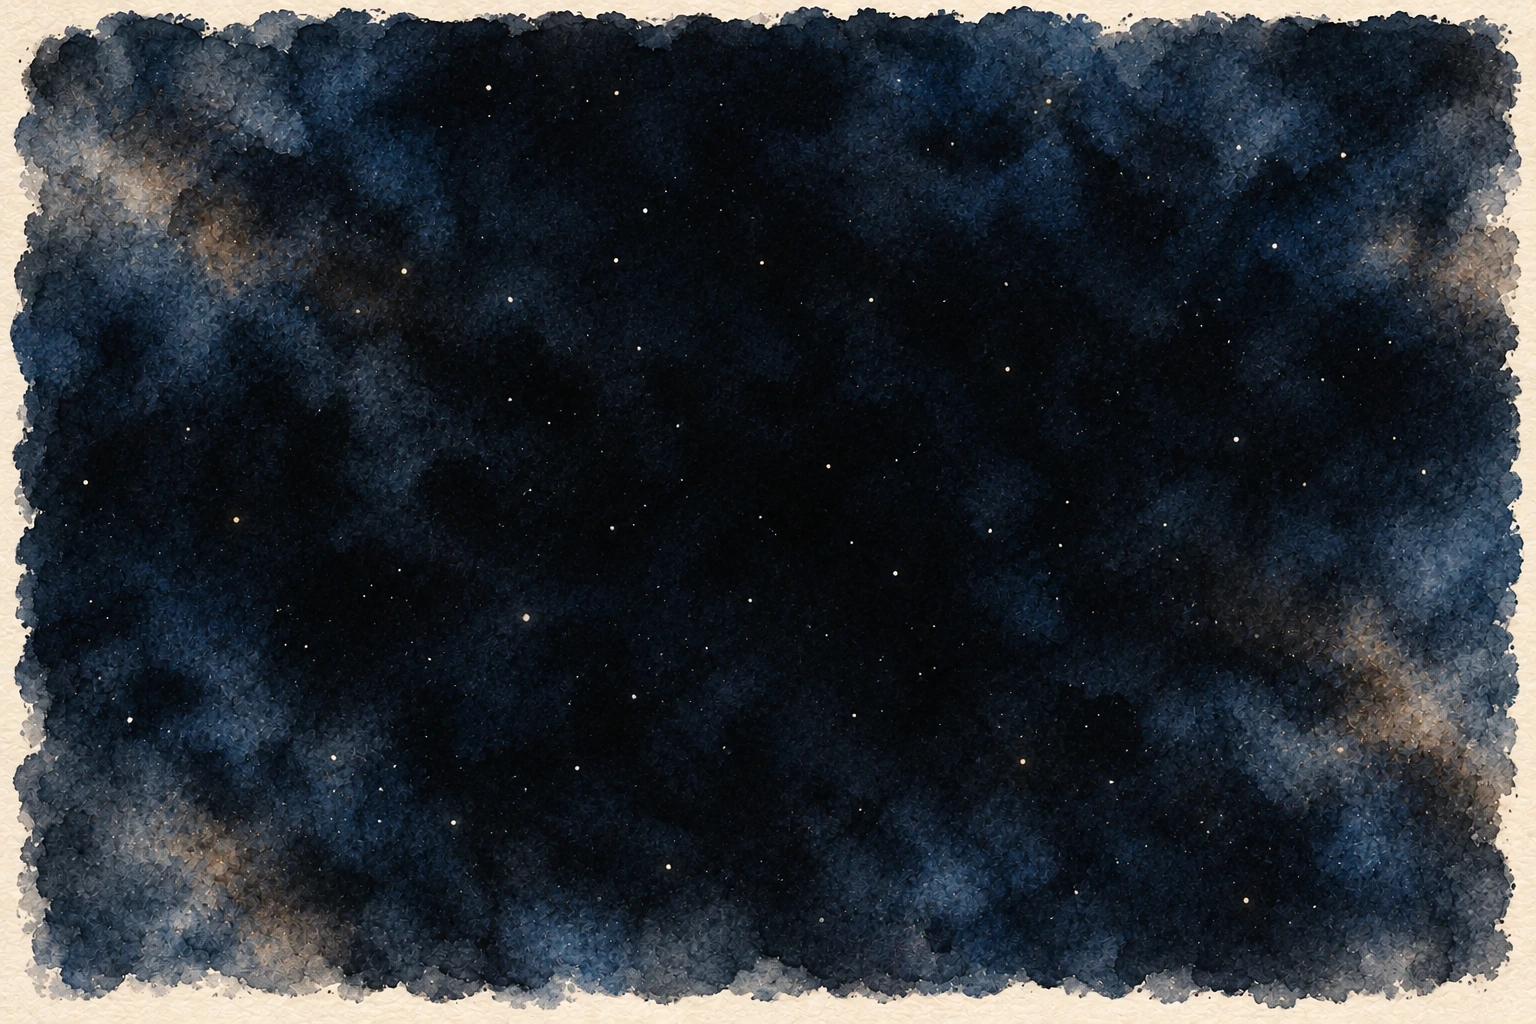
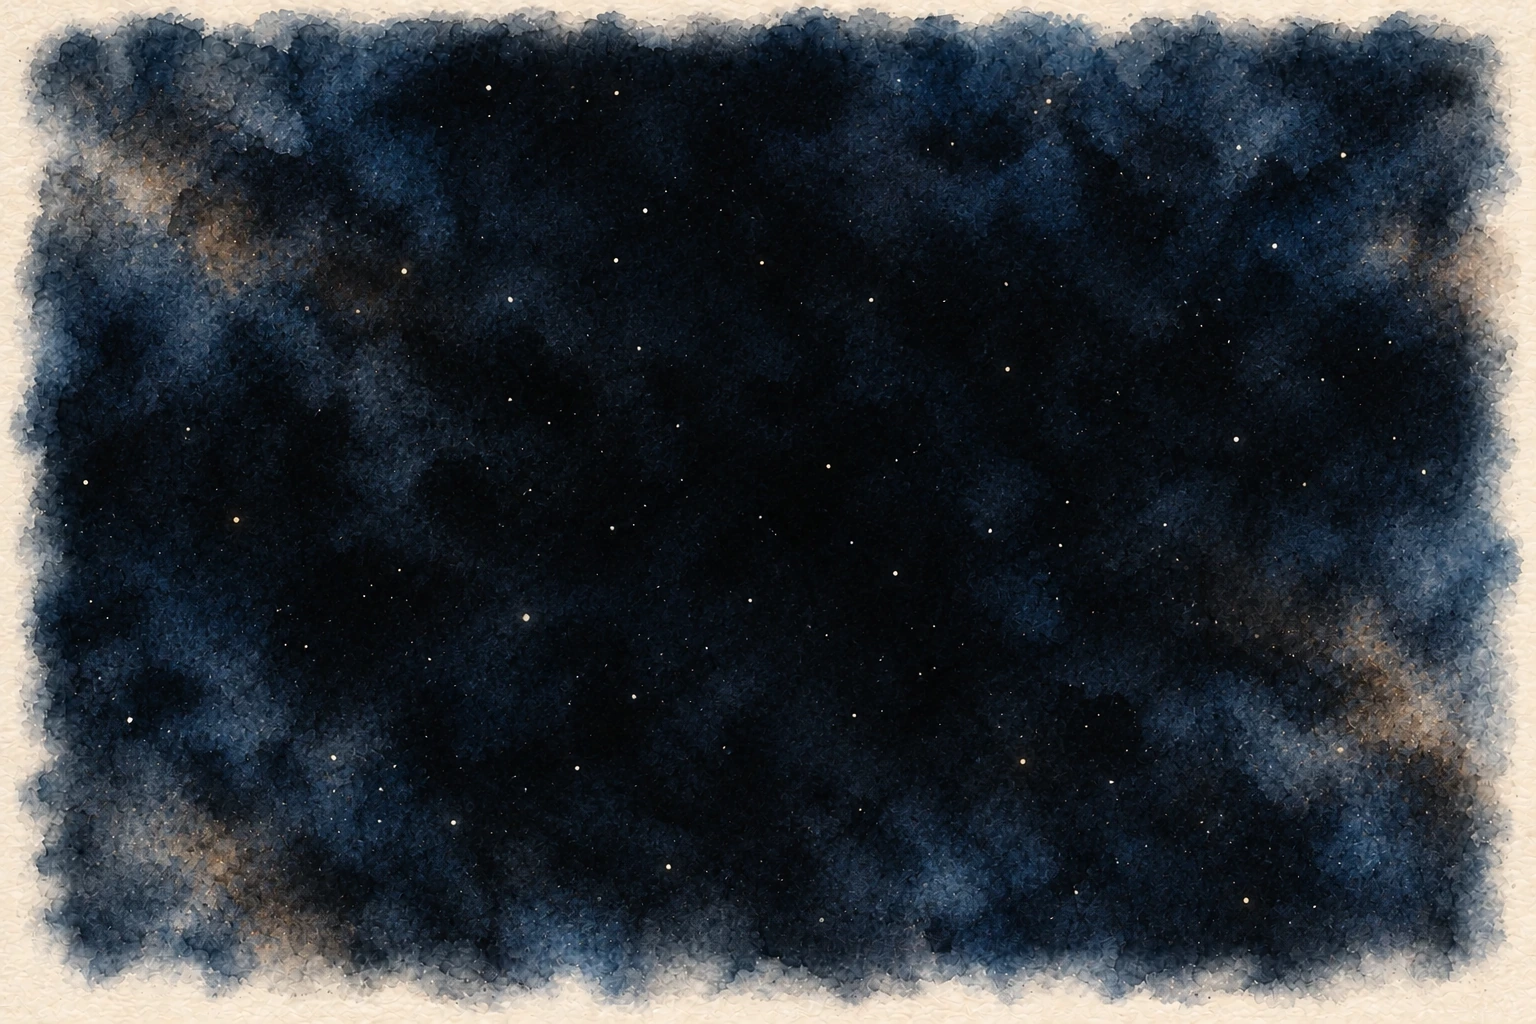
Refresh space watercolors and Deep space travel areas (#767)
Replace seven space watercolors, align detail crops and labels, preserve the Earth-view Venus lighting, and put Deep space travel targets in the empty space beside their labels.

Changed region(s): [[0.0, 0.0, 1.0, 1.0]]

diff --git a/pictures/space/index.html b/pictures/space/index.html
@@ -156,10 +156,10 @@ scenes:
     label_x: 16.6
     label_y: 14
     label_edge: right
-    paint_image: /pictures/space/assets/near-venus-watercolor.webp
+    paint_image: /pictures/space/assets/venus-earth-portrait.webp
     paint_width: 3.2
-    paint_position: 69.20% 24.00%
-    paint_zoom: 175% auto
+    paint_position: 50% 50%
+    paint_zoom: 100% auto
   branch: venus
   branch_label: Venus · toward the Sun
 - id: moon
@@ -767,13 +767,14 @@ scenes:
     label_edge: left
     paint_image: /pictures/space/assets/voyager-2-watercolor.webp
     paint_width: 4.2
-    paint_position: 76% 62%
-    paint_zoom: 200% auto
+    paint_position: 74% 57%
+    paint_zoom: 260% auto
 - id: voyager-2
   name: Near Voyager 2
   image: /pictures/space/assets/voyager-2-watercolor.webp
-  alt: Voyager 2 alone in a wide field of dark watercolor space, its pale dish and slender booms surrounded by
-    distant stars. A small Arrokoth portrait offers a return to the Kuiper Belt.
+  alt: Voyager 2 seen obliquely from the front and slightly below, its pale dish facing upper left above a dark
+    equipment body. Three finned power units and slender booms extend into indigo watercolor space. A small
+    Arrokoth portrait offers a return to the Kuiper Belt.
   caption: Voyager 2. Beyond Neptune, its route turned south of the planets’ orbital plane. Continue into deep space.
   back: kuiper-belt
   back_label: The Kuiper Belt
@@ -781,17 +782,18 @@ scenes:
   next_label: Deep space
   spots:
   - label: Voyager 2
-    x: 61
-    y: 40
+    x: 64.1
+    y: 47
     detail: voyager-2
     primary: true
   - label: Deep space
-    x: 20
-    y: 44
+    x: 63
+    y: 14
+    label_x: 85
     detail: voyager-distance
     go: deep-space
-    width: 12
-    height: 18
+    width: 14
+    height: 21
   - label: Arrokoth
     x: 15
     y: 14
@@ -842,8 +844,8 @@ scenes:
     label_edge: right
     paint_image: /pictures/space/assets/voyager-2-watercolor.webp
     paint_width: 4.8
-    paint_position: 76% 62%
-    paint_zoom: 200% auto
+    paint_position: 74% 57%
+    paint_zoom: 260% auto
   - label: Voyager 1
     x: 85
     y: 20
@@ -857,14 +859,14 @@ scenes:
     label_edge: left
     paint_image: /pictures/space/assets/voyager-1-watercolor.webp
     paint_width: 4.8
-    paint_position: 80% 62%
-    paint_zoom: 200% auto
+    paint_position: 56% 40%
+    paint_zoom: 260% auto
 - id: voyager-1
   name: Near Voyager 1
   image: /pictures/space/assets/voyager-1-watercolor.webp
-  alt: Voyager 1 alone at right in deep watercolor space, with a broad pale dish, dark equipment body,
-    small gold record cover and slender instrument booms. The space to its left is empty of other craft. A small
-    Earth portrait at upper right leads back home.
+  alt: Voyager 1 seen from behind and above, with the rear of its pale dish facing the viewer and its open side
+    turned toward upper right. A gold record cover sits on the dark equipment body, three finned power units
+    extend right and the camera platform extends left. A small Earth portrait at upper right leads back home.
   caption: Voyager 1. Explore the message it carries and the story of Pale Blue Dot, then return to Earth.
   back: deep-space
   back_label: Deep space
@@ -872,36 +874,38 @@ scenes:
   next_label: Earth
   spots:
   - label: Voyager 1
-    x: 64
-    y: 40
+    x: 56.3
+    y: 36.6
     detail: voyager-1
     primary: true
-    hint_y: -20
+    hint_y: -15
   - label: Golden Record
-    x: 57.4
-    y: 57.4
+    x: 53
+    y: 48.8
     detail: golden-record
-    label_side: right
-    label_gap: 1.5
-    hint_x: 15
-    hint_y: 15
+    label_edge: left
+    hint_x: 0
+    hint_y: 25
   - label: Pale Blue Dot
-    x: 90
-    y: 45
+    x: 39
+    y: 40.5
     detail: pale-blue-dot
     label_edge: left
   - label: Power source
-    x: 49.2
-    y: 66
+    x: 64.1
+    y: 53
     detail: voyager-power
-    hint_x: -10
+    label_side: right
+    label_gap: 2
+    hint_y: 15
   - label: Deep space
-    x: 18
-    y: 40
+    x: 37
+    y: 14
+    label_x: 15
     detail: voyager-distance
     go: deep-space
-    width: 12
-    height: 18
+    width: 14
+    height: 21
   - label: Earth
     x: 85
     y: 14
@@ -920,7 +924,7 @@ scenes:
 - id: venus
   name: Near Venus
   image: /pictures/space/assets/near-venus-watercolor.webp
-  alt: A pale cream watercolor Venus covered by sweeping opaque clouds, with its right limb in shadow. A small Magellan
+  alt: A pale cream watercolor Venus covered by sweeping opaque clouds, lit from the upper right with its left limb in shadow. A small Magellan
     spacecraft to the left has a dish antenna, a golden body and two gray-blue solar panels. A small blue Earth
     at upper left offers a return, and gray Mercury at upper right leads closer to the Sun.
   caption: Near Venus. Explore the clouds and Magellan, continue inward to Mercury, or return to Earth.
@@ -947,8 +951,9 @@ scenes:
     primary: false
     hint_y: 5
   - label: Phases
-    x: 78
-    y: 53
+    x: 37
+    y: 45
+    label_edge: left
     detail: venus-phases
     primary: false
   - label: Magellan
@@ -2013,7 +2018,7 @@ details:
   image: /pictures/space/assets/near-venus-watercolor.webp
   position: 69.20% 24.00%
   zoom: 175% auto
-  alt: Venus’s pale opaque cloud cover with its right limb in shadow.
+  alt: Venus’s pale opaque cloud cover with its left limb in shadow.
 - id: venus-clouds
   label: Acid clouds
   kicker: Venus · Atmosphere
@@ -2052,7 +2057,7 @@ details:
   image: /pictures/space/assets/near-venus-watercolor.webp
   position: 58.40% 81.40%
   zoom: 260% auto
-  alt: The lower part of Venus’s cloud-covered globe, with light fading toward the right.
+  alt: The lower part of Venus’s cloud-covered globe, with light fading toward the left.
 - id: venus-phases
   label: Phases
   kicker: Venus · Galileo’s telescope
@@ -2069,9 +2074,9 @@ details:
   sources:
   - venus-phases-history
   image: /pictures/space/assets/near-venus-watercolor.webp
-  position: 85.47% 51.19%
+  position: 31% 40%
   zoom: 300% auto
-  alt: Venus’s cloudy right limb fading from pale reflected sunlight into shadow.
+  alt: Venus’s cloudy left limb fading from pale reflected sunlight into shadow.
 - id: magellan
   label: Magellan
   kicker: Venus · Radar exploration
@@ -2361,9 +2366,9 @@ details:
   - voyager-routes
   - voyager-hardware
   image: /pictures/space/assets/voyager-1-watercolor.webp
-  position: 81% 55%
-  zoom: 180% auto
-  alt: Voyager 1’s pale dish above its dark equipment body and instrument boom.
+  position: 56% 40%
+  zoom: 260% auto
+  alt: The rear of Voyager 1’s pale dish above its dark equipment body, with the camera platform at left.
 - id: voyager-2
   label: Voyager 2
   kicker: The longer planetary tour
@@ -2382,9 +2387,9 @@ details:
   - voyager-2
   - voyager-routes
   image: /pictures/space/assets/voyager-2-watercolor.webp
-  position: 75% 55%
-  zoom: 180% auto
-  alt: Voyager 2 alone, with its dish and long instrument booms.
+  position: 74% 57%
+  zoom: 260% auto
+  alt: Voyager 2’s tilted pale dish, dark equipment body and instrument platform, seen from the front and below.
 - id: heliopause
   label: Beyond the solar wind
   kicker: A boundary in the surrounding particles
@@ -2438,9 +2443,9 @@ details:
   - record-cover
   - sagan-newman
   image: /pictures/space/assets/voyager-1-watercolor.webp
-  position: 59.12% 59.87%
-  zoom: 600% auto
-  alt: A small gold circle on the left-facing side of Voyager’s dark equipment body.
+  position: 53.6% 48.4%
+  zoom: 1000% auto
+  alt: The small circular gold record cover on a visible face of Voyager 1’s dark equipment body.
 - id: voyager-power
   label: Power source
   kicker: Electricity far from the Sun
@@ -2457,9 +2462,9 @@ details:
   - voyager-hardware
   - voyager-model
   image: /pictures/space/assets/voyager-1-watercolor.webp
-  position: 48.98% 70.83%
-  zoom: 600% auto
-  alt: Three finned power units mounted along Voyager’s short downward-left boom.
+  position: 67% 54%
+  zoom: 700% auto
+  alt: Three finned power units arranged end to end along Voyager 1’s short rightward boom.
 - id: pale-blue-dot
   label: Pale Blue Dot
   kicker: Voyager 1 looks back
@@ -2477,9 +2482,9 @@ details:
   sources:
   - pale-blue-dot
   image: /pictures/space/assets/voyager-1-watercolor.webp
-  position: 100% 48%
-  zoom: 350% auto
-  alt: The instrument assembly at the end of Voyager 1’s boom, which carried its cameras.
+  position: 37% 37%
+  zoom: 600% auto
+  alt: The camera apertures on the instrument platform at the end of Voyager 1’s leftward science boom.
   link: https://science.nasa.gov/mission/voyager/voyager-1s-pale-blue-dot/
   link_label: See Pale Blue Dot at NASA
 - id: voyager-distance
